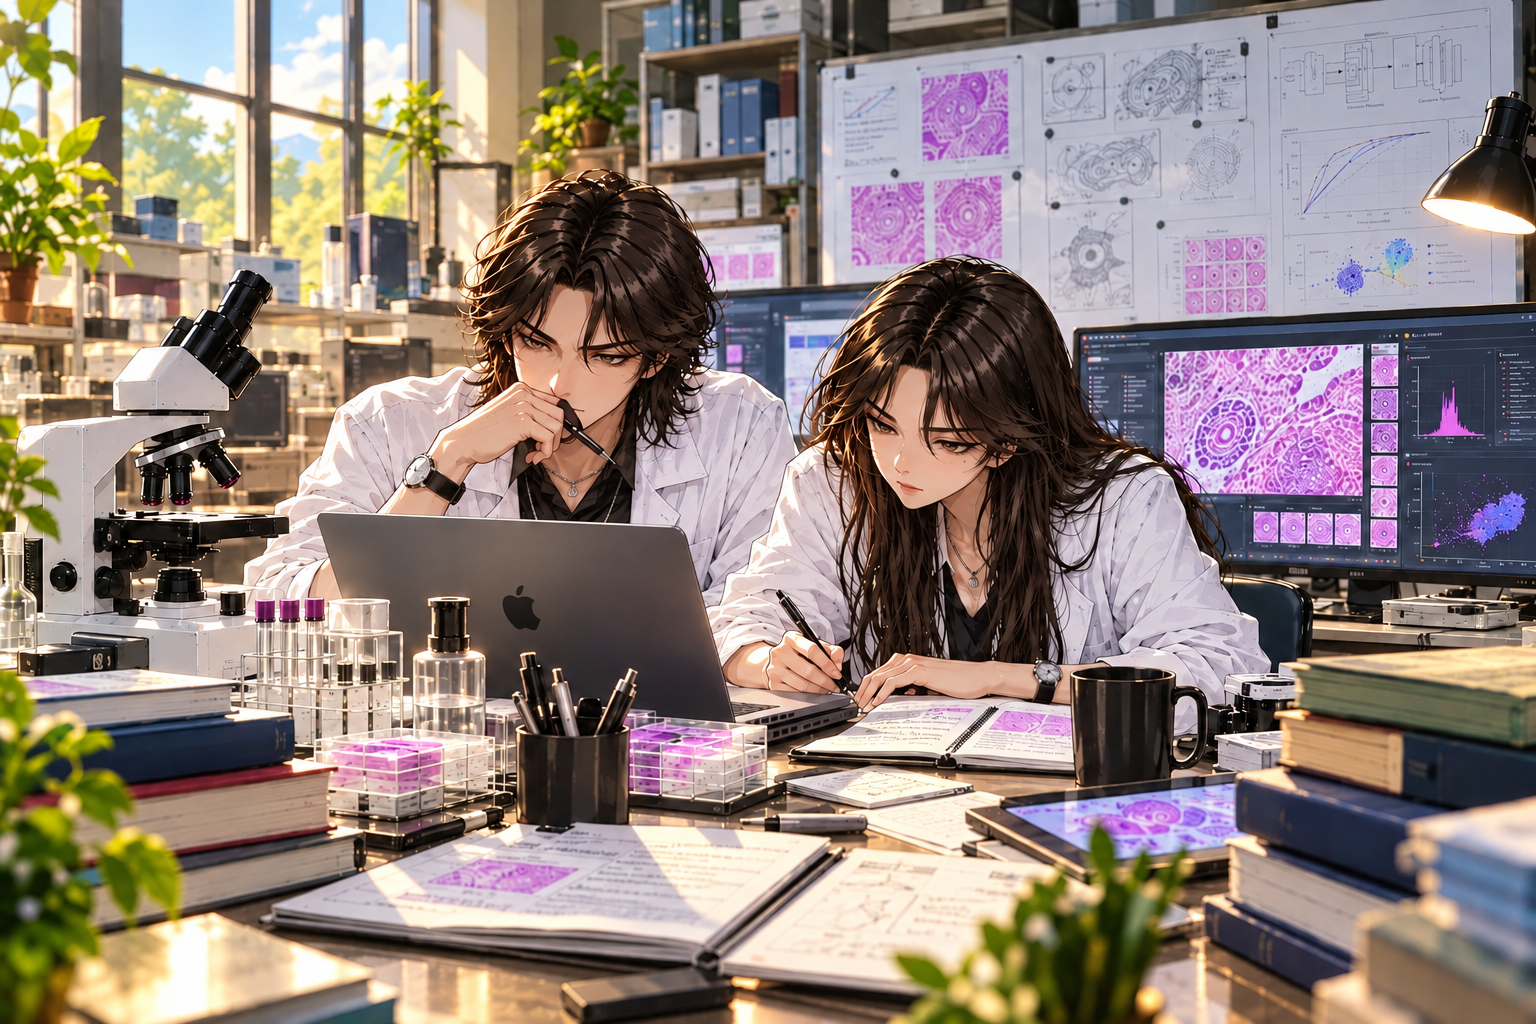
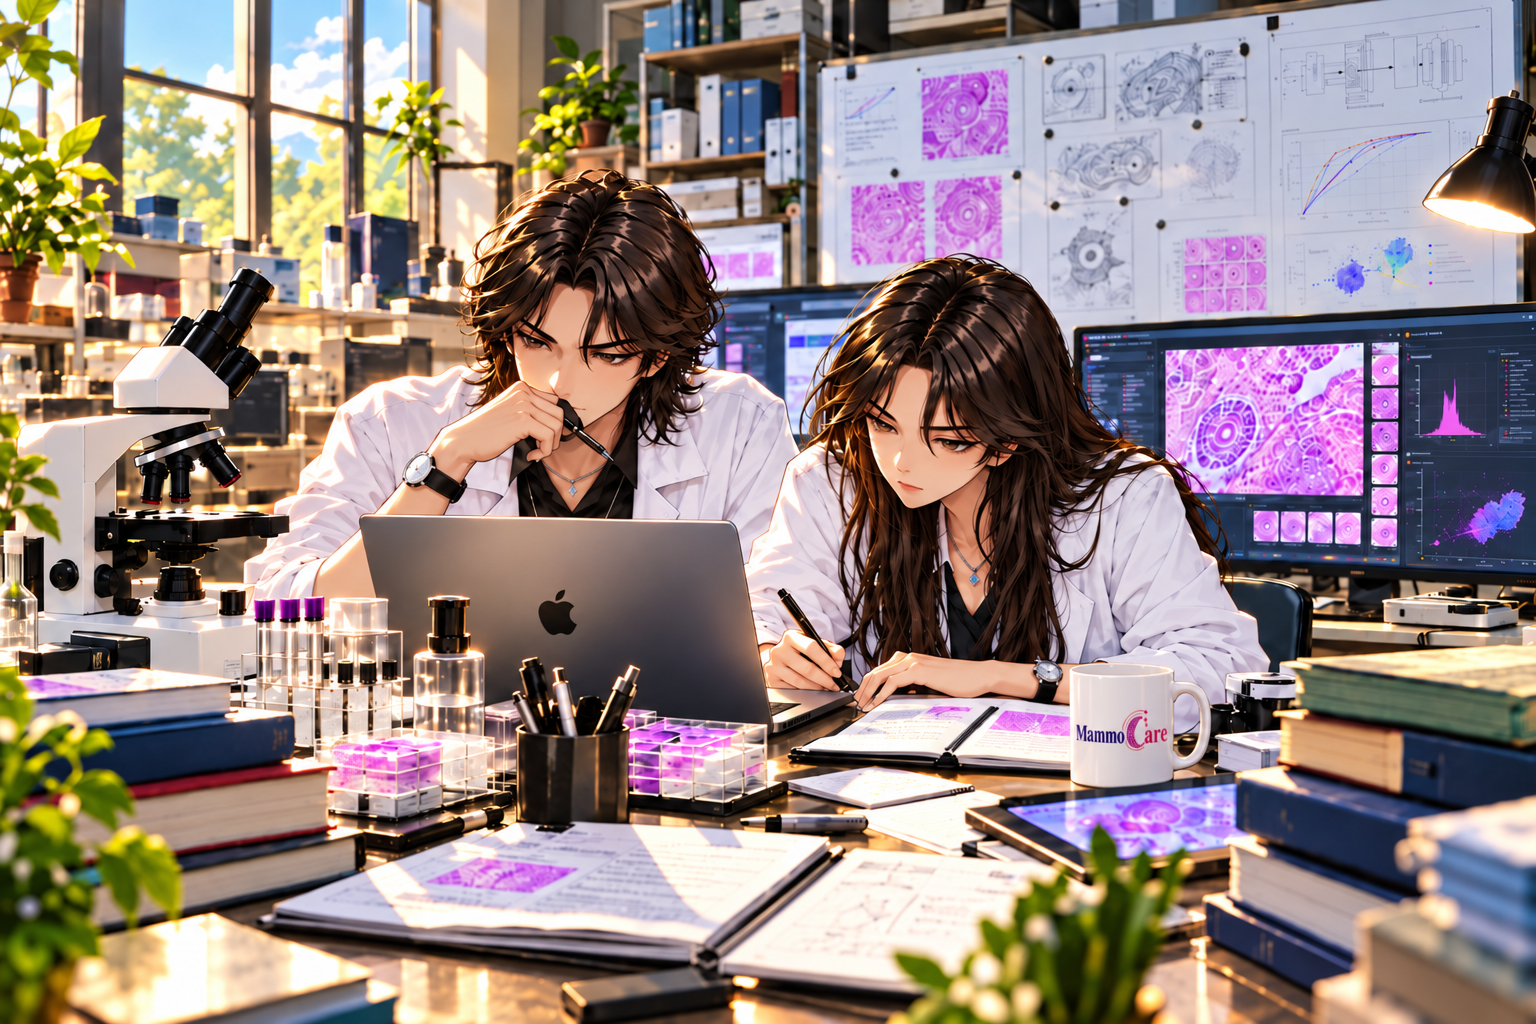
docs: enhance README and update research lab assets

diff --git a/README.md b/README.md
@@ -23,6 +23,14 @@
 </p>
 
 <p align="center">
+  <img
+    src="https://raw.githubusercontent.com/aryanap07/MammoCare/main/assets/mammocare-research-lab.png"
+    alt="MammoCare researchers studying breast histopathology images in a biomedical research laboratory"
+    width="100%"
+  >
+</p>
+
+<p align="center">
   <a href="#research-focus">Research Focus</a> &nbsp;·&nbsp;
   <a href="#dataset">Dataset</a> &nbsp;·&nbsp;
   <a href="#methodology">Methodology</a> &nbsp;·&nbsp;
